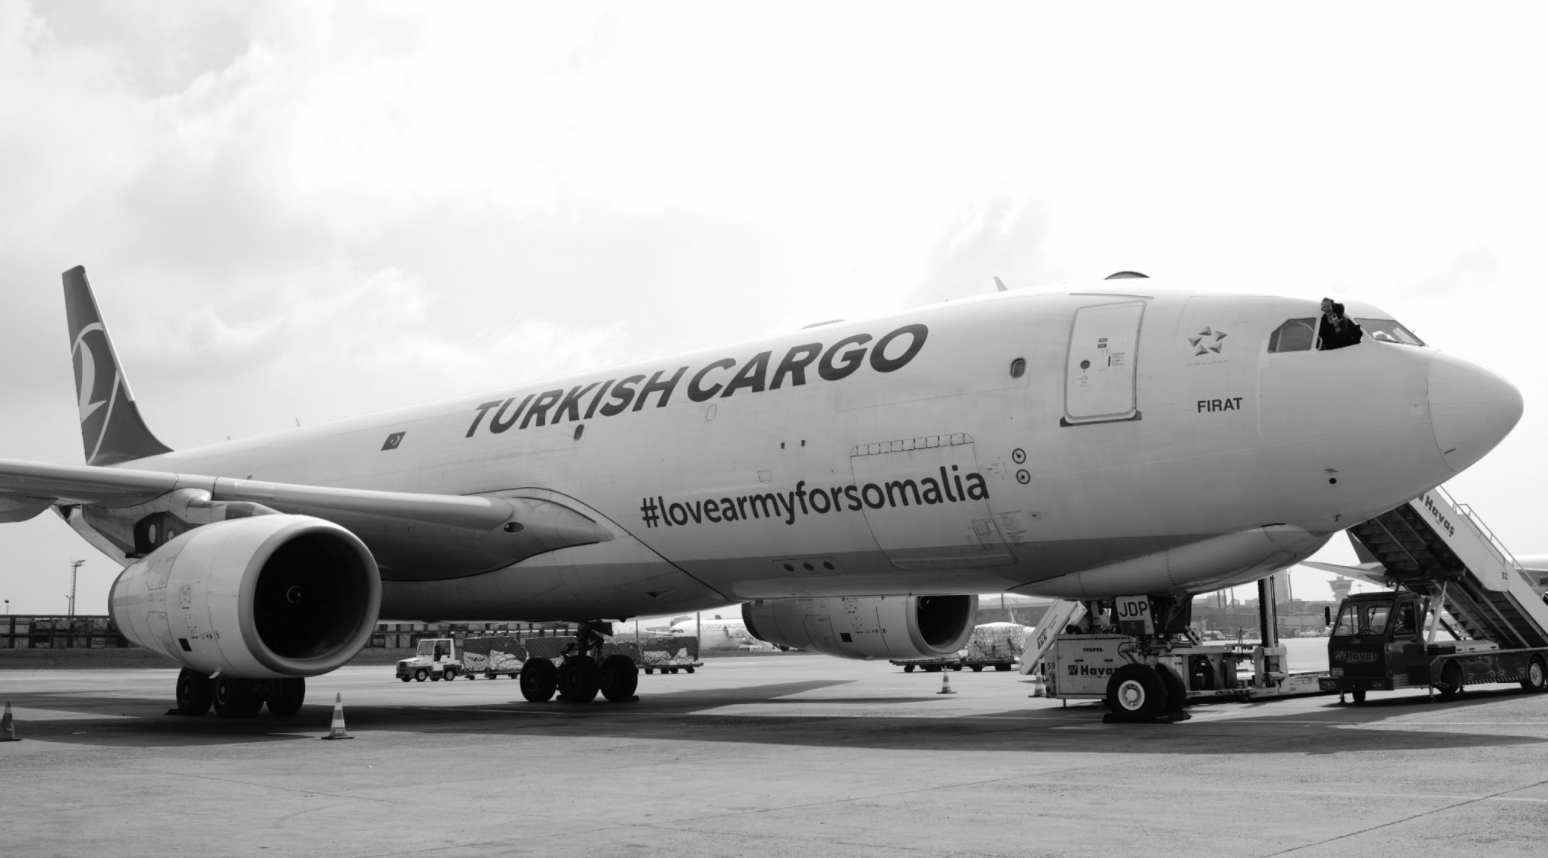
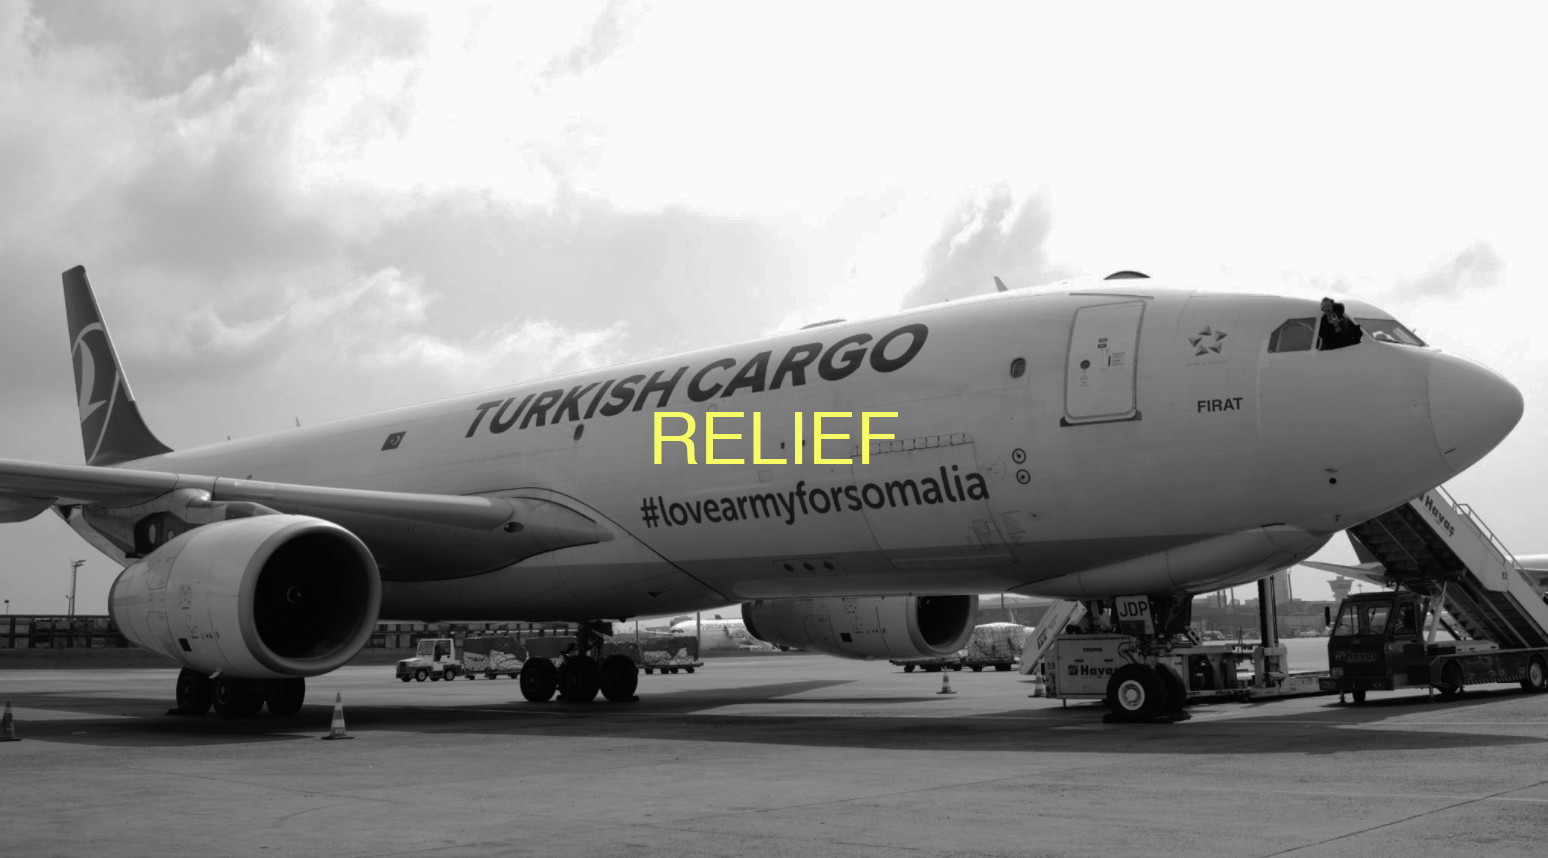
yeah yeah yeah

diff --git a/project 3/Lovearmy.html b/project 3/Lovearmy.html
@@ -1,1 +1,23 @@
 <!DOCTYPE html>
+<html lang="en">
+    <head>
+        <title>Love Army
+        </title>
+       <link rel="stylesheet"href="famine.css">
+        <link href="https://fonts.googleapis.com/css?family=Raleway|Rubik+Mono+One" rel="stylesheet">
+    </head>
+    <body> 
+        <div class="topnav" id="navigation">
+            <ul>
+                <li><a href="Project%203.html">Home</a></li>
+                <li><a href="Famine.html">Famine</a></li>
+                <li><a href="Lovearmy.html">Love Army</a></li>
+                <li><a href="Relief.html">Relief</a></li>
+            </ul>
+        </div>
+        <iframe width="100%" height="415" src="https://www.youtube.com/embed/93dDP-O4VsI" frameborder="0" allowfullscreen></iframe>
+        <p>Celebrities have banded together for a viral fundraising campaign to help offset the humanitarian crisis in Somalia, raising more than $2 million in less a week from nearly 80,000 contributors and counting.</p>
+        <p>Their plan: to fill a cargo plane with food destined for the emergency zone. Actor Ben Stiller and athlete Colin Kaepernick, plus social media heavyweights like Casey Neistat, Jerome Jarre, Chakabars Clarke, Juanpa Zurita, and Amanda Cerny combined their celebrity status to rally a "Love Army for Somalia" online, imploring their shared millions of followers and friends to contribute to relief efforts in a GoFundMe.</p>
+        <p>The campaign can be traced back to France's Jerome Jarre, who took to social media on March 15 to ask Turkish Airlines to deliver life-saving supplies to Somalia. The region, as Jarre noted, has been hit by a deadly drought. It's already taken the lives of 26 and is expected to escalate.</p>
+    </body>
+</html>

diff --git a/project 3/Famine.html b/project 3/Famine.html
@@ -1,1 +1,23 @@
 <!DOCTYPE html>
+<html lang="en">
+    <head>
+        <title>Famine</title>
+        <link rel="stylesheet"href="famine.css">
+        <link href="https://fonts.googleapis.com/css?family=Raleway|Rubik+Mono+One" rel="stylesheet">
+    </head>
+    <body>
+        <div class="topnav" id="navigation">
+            <ul>
+                <li><a href="Project%203.html">Home</a></li>
+                <li><a href="Famine.html">Famine</a></li>
+                <li><a href="Lovearmy.html">Love Army</a></li>
+                <li><a href="Relief.html">Relief</a></li>
+            </ul>
+        </div>
+        <img src="images/children.jpg">
+        <section><h2>"Over six million people are in need of food assistance in Somalia; more than half the country's population"</h2></section>
+        <p>The drought, impending famine and the presence of Al-Shabaab, a terrorist group, have left the country and its people in a desperate situation. The International Organization for Migration has warned that if "action is not taken immediately, early warning signals point towards a growing humanitarian crisis in Somalia of potentially catastrophic proportions." The drought has taken the Somlians animals and land, and now hunger is taking their population. Over six million people are in need of food assistance in Somalia; more than half the country's population. The UN has estimated that up to half a million children will suffer acute malnutrition in the country this year. Many who survive will face related health problems throughout their lives.
+        </p>
+        <img src="images/child.jpg" alt="malnutritioned child">
+    </body>
+</html>

diff --git a/project 3/Project 3.html b/project 3/Project 3.html
@@ -3,21 +3,26 @@
     <head>
         <title>Project3 Famine in Somalia</title>
         <link rel="stylesheet"href="project3css.css">
+        <link href="https://fonts.googleapis.com/css?family=Raleway" rel="stylesheet">
     </head>
     <body>
         <header>
-        </header>     
+        </header>
+        <div class="topnav" id="navigation">
+            <ul>
+                <li><a href="Famine.html">Famine</a></li>
+                <li><a href="Lovearmy.html">Love Army</a></li>
+                <li><a href="Relief.html">Relief</a></li>
+            </ul>
+            </div>
         <section id="one">
-            <img src="images/BROOO.png">
-            <a href="Famine.html"><h2>Famine</h2></a>
+            <a href="Famine.html"><img src="images/BROOO.png"></a>
         </section>
         <section id="two">
-            <!--<img src="images/Unknown.jpeg" alt="Casey">-->
-            <a href="Lovearmy.html"><h2>Love Army For Somalia</h2></a>
+            <a href="Lovearmy.html"><img src="images/love%20army.jpg" alt="Casey"></a>
         </section>
-        <section id="three">
-            <img id="turk" src="images/turkishair.png" alt="Turkish airlines' Love Army airplane"> 
-            <a href="Relief.html"><h2>Relief</h2></a>
+        <section id="three"> 
+            <a href="Relief.html"> <img id="turk" src="images/turkishair.png" alt="Turkish airlines' Love Army airplane"></a>
         </section>   
         <footer>
         </footer>

diff --git a/project 3/Relief.html b/project 3/Relief.html
@@ -1,1 +1,19 @@
 <!DOCTYPE html>
+<html lang="en">
+  <head>
+        <title>Love Army
+        </title>
+        <link rel="stylesheet"href="project3css.css">
+    </head>
+    <body> 
+        <div class="topnav" id="navigation">
+            <ul>
+                <li><a href="Project%203.html">Home</a></li>
+                <li><a href="Famine.html">Famine</a></li>
+                <li><a href="Lovearmy.html">Love Army</a></li>
+                <li><a href="Relief.html">Relief</a></li>
+            </ul>
+        </div>
+        <img src="images/smiles.jpg" alt="smiling somalian children">
+        <a href="https://www.gofundme.com/LOVEARMYFORSOMALIA">Love Army Go Fund Me</a>
+    </body>

diff --git a/project 3/famine.css b/project 3/famine.css
@@ -1,17 +1,23 @@
-body {
+body{
     width: 100%;
     margin: 0;
-    background-color: dimgray
+    background-color: dimgray;
 }
-img {
-    width: 100%;
+h2{
+    text-align: center;
+    color: #f6fb65;
+    font-size: 1.5em;
+    font-family: 'Rubik Mono One', sans-serif;
+    margin: 5%
 }
-img#turk {
-    width: 100%;
-    margin: 0;
+p{
+    font-family: 'Raleway', sans-serif;
+    color: whitesmoke;
+    margin-left: 5%;
+    margin-right: 5%;
 }
-section {
-    width: 100%;
+img{
+    width: 100%
 }
 ul {
     list-style-type: none;
